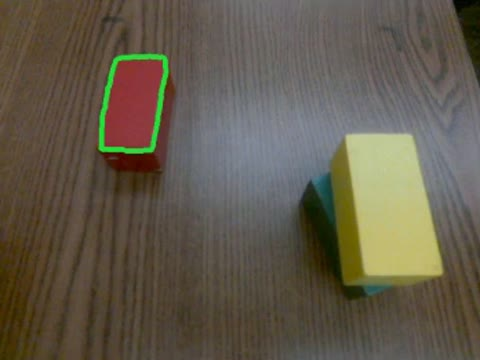
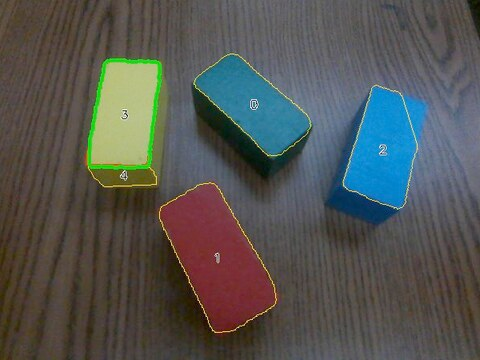
Unveiler card: use the free-target episode and a shorter label

diff --git a/index.html b/index.html
@@ -175,8 +175,8 @@
           <div class="preview-label">Verify2Act · World Models</div>
         </a>
         <a href="https://object-unveiler.github.io" target="_blank" class="preview-card">
-          <img src="images/unveiler.gif?v=2" alt="Unveiler retrieving covered blocks with a robot arm" />
-          <div class="preview-label">Unveiler · Manipulation in Clutter</div>
+          <img src="images/unveiler.gif?v=3" alt="Unveiler selecting and grasping a target block" />
+          <div class="preview-label">Unveiler: Spatial Reasoning</div>
         </a>
         <a href="https://arxiv.org/pdf/2402.07127.pdf" target="_blank" class="preview-card">
           <img src="images/learning_by_watching.jpeg" alt="Learning By Watching paper" />
@@ -338,7 +338,7 @@
         <!-- Unveiler journal paper -->
         <article class="pub-item">
           <div class="pub-thumb">
-            <img src="images/unveiler_thumb.jpg?v=2" alt="Unveiler journal paper thumbnail" />
+            <img src="images/unveiler_thumb.jpg?v=3" alt="Unveiler journal paper thumbnail" />
           </div>
           <div class="pub-body">
             <p class="pub-title">Learning Object-Centric Spatial Reasoning for Sequential Manipulation in Cluttered
